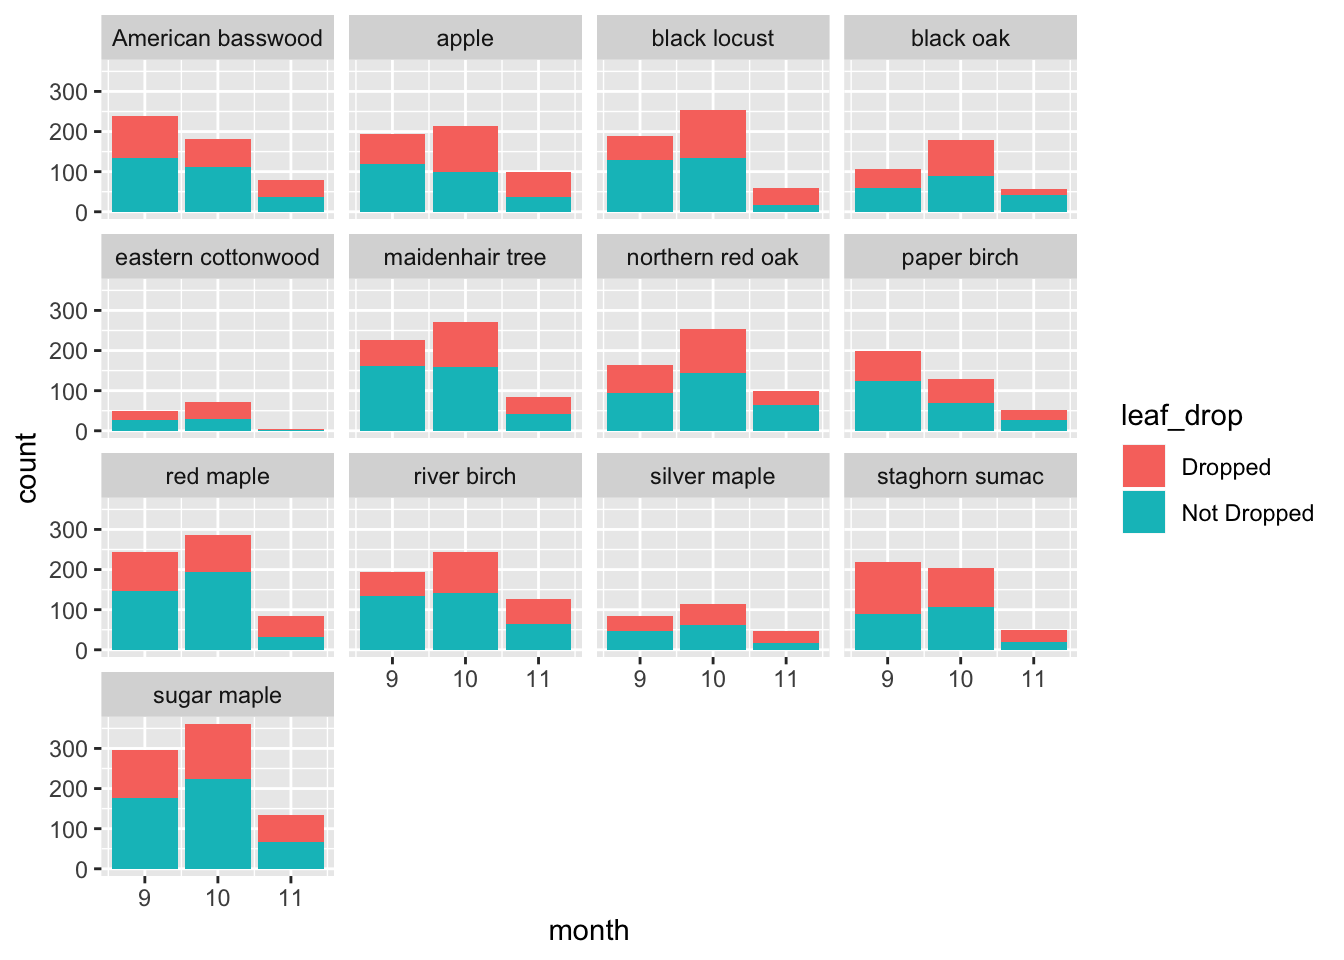
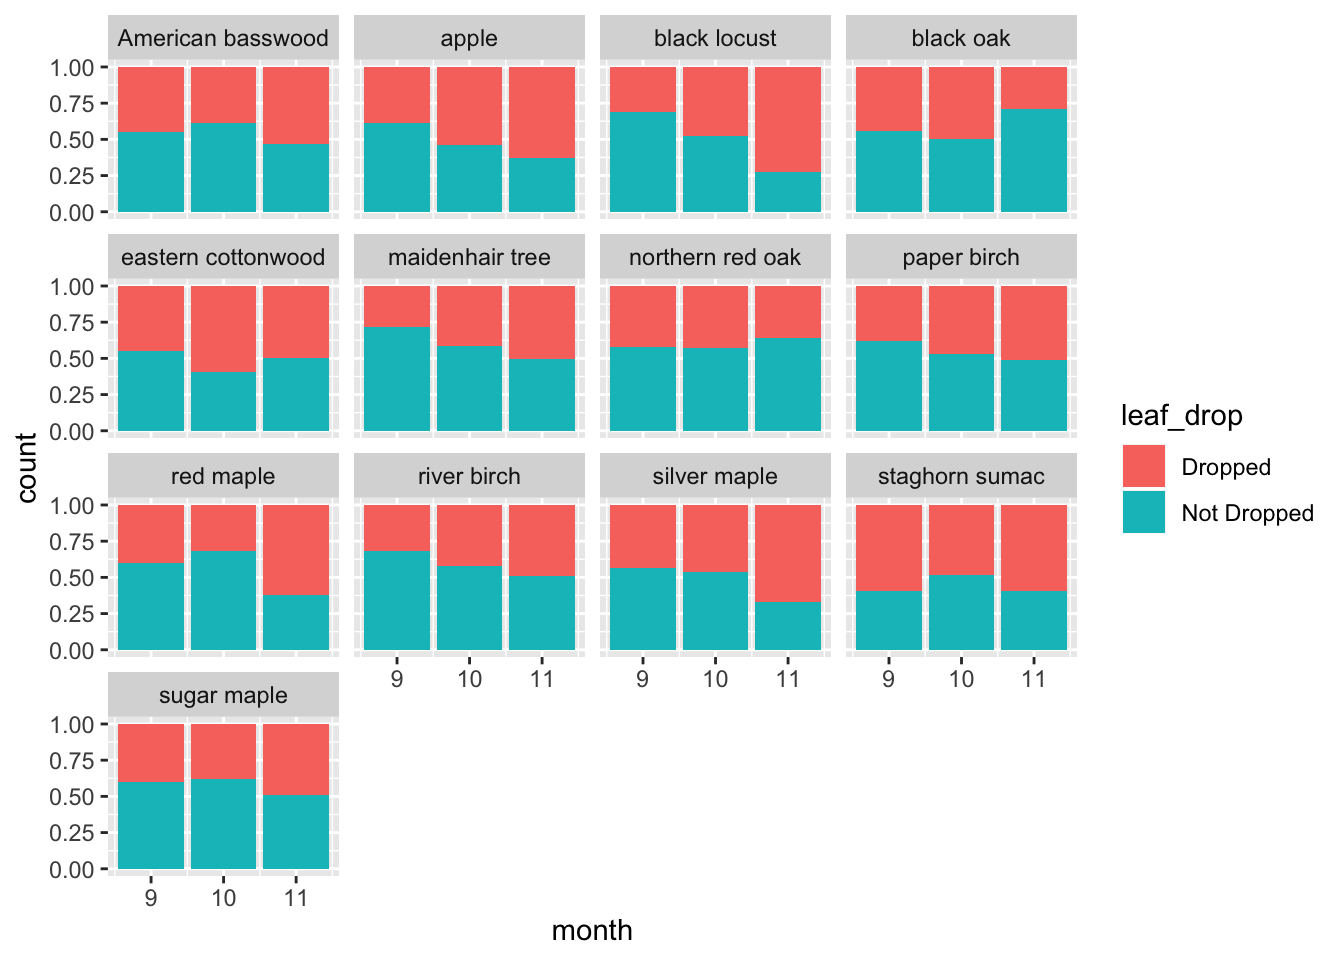
Updating graphs and text.

diff --git a/docs/index.html b/docs/index.html
@@ -7444,7 +7444,7 @@ leaflet(trees) %&gt;%
 <pre class="r"><code>d_filtered %&gt;%
   filter(month &gt;= 9, !is.na(leaf_drop)) %&gt;%
   ggplot(aes(x = month, fill = leaf_drop)) +
-  geom_bar() +
+  geom_bar(position = &quot;fill&quot;) +
   facet_wrap(~ common_name)</code></pre>
 <p><img src="index_files/figure-html/unnamed-chunk-8-1.png" width="672" /></p>
 <pre class="r"><code>ggplot(d_filtered, aes(x = common_name, fill = common_name)) +
@@ -7476,7 +7476,7 @@ This code was generated by Professor Wilson
 </div>
 <div id="references" class="section level1">
 <h1>References</h1>
-<p>Professor Wilson | National Phenology Network</p>
+<p>Professor Wilson | National Phenology Network | Stackoverflow (code) | Rstudio documentation</p>
 </div>
 
 <!-- give the footer some space -->
